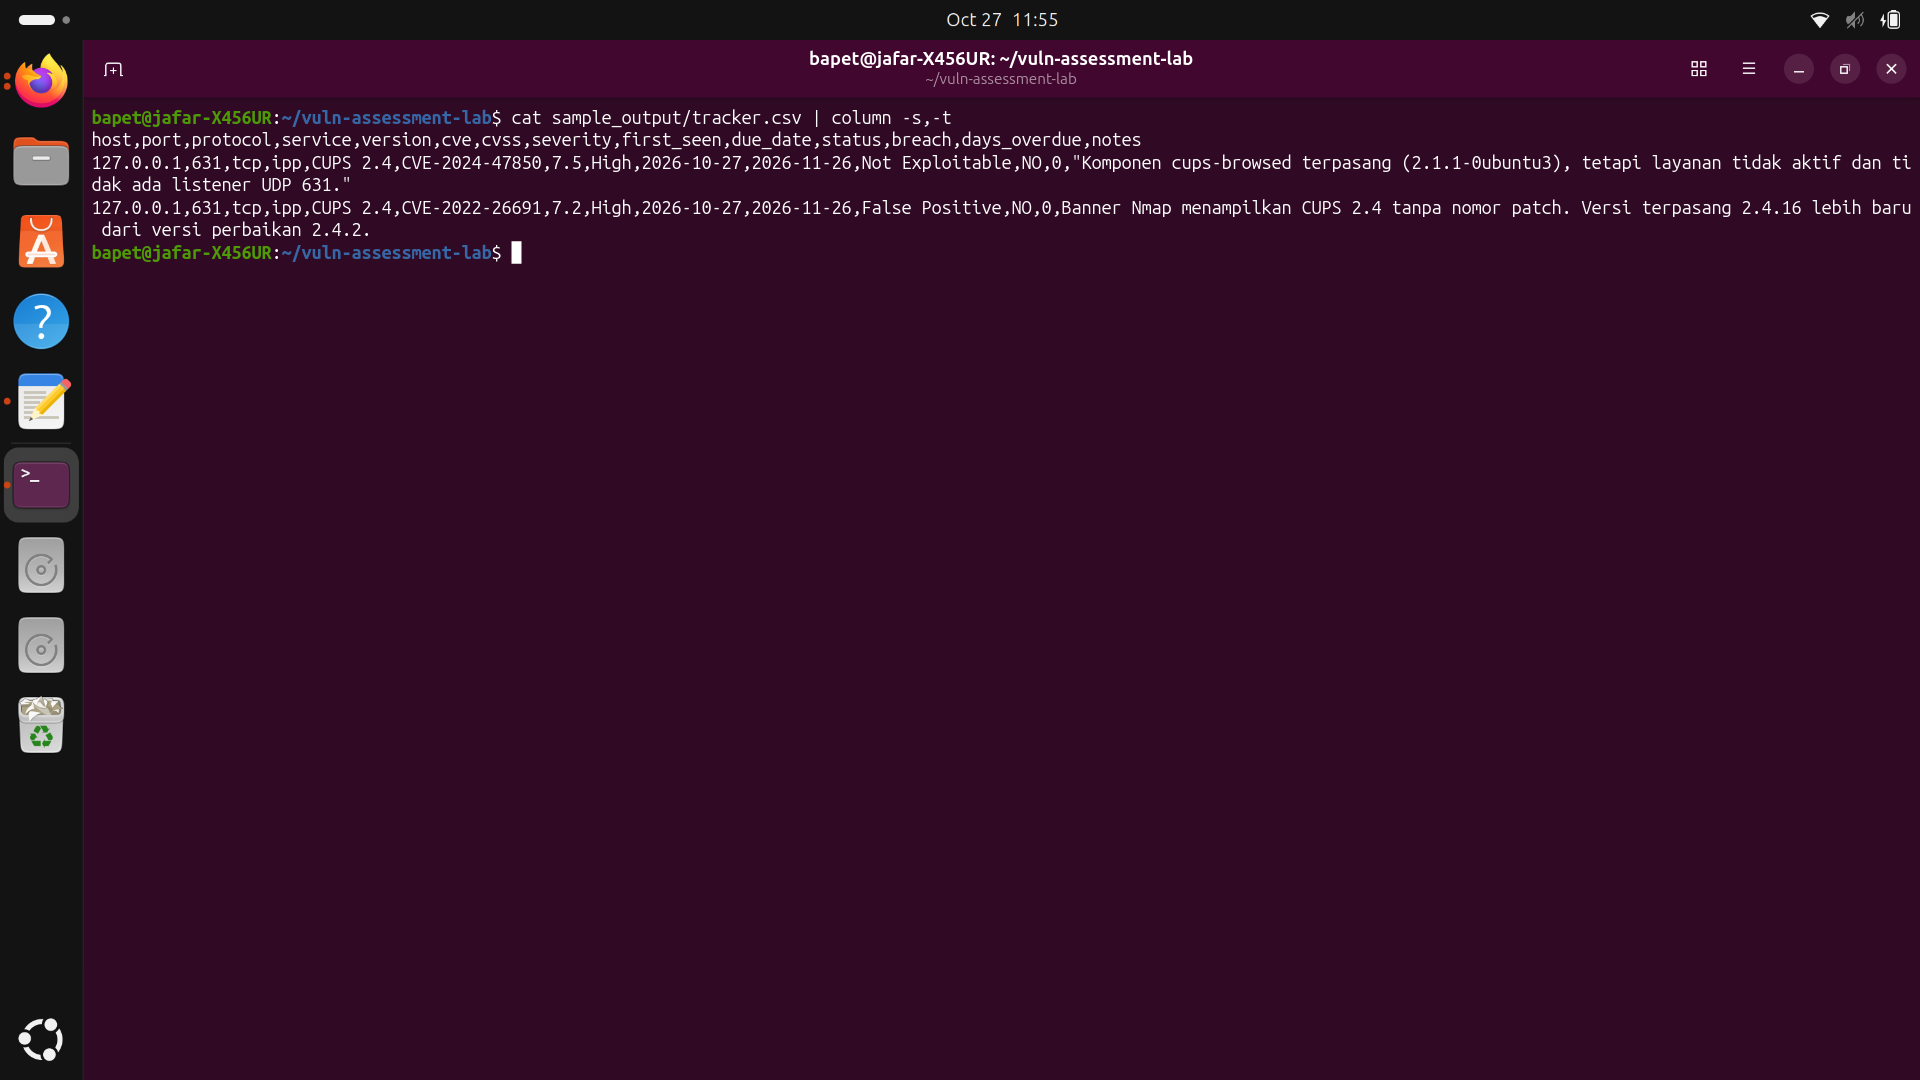
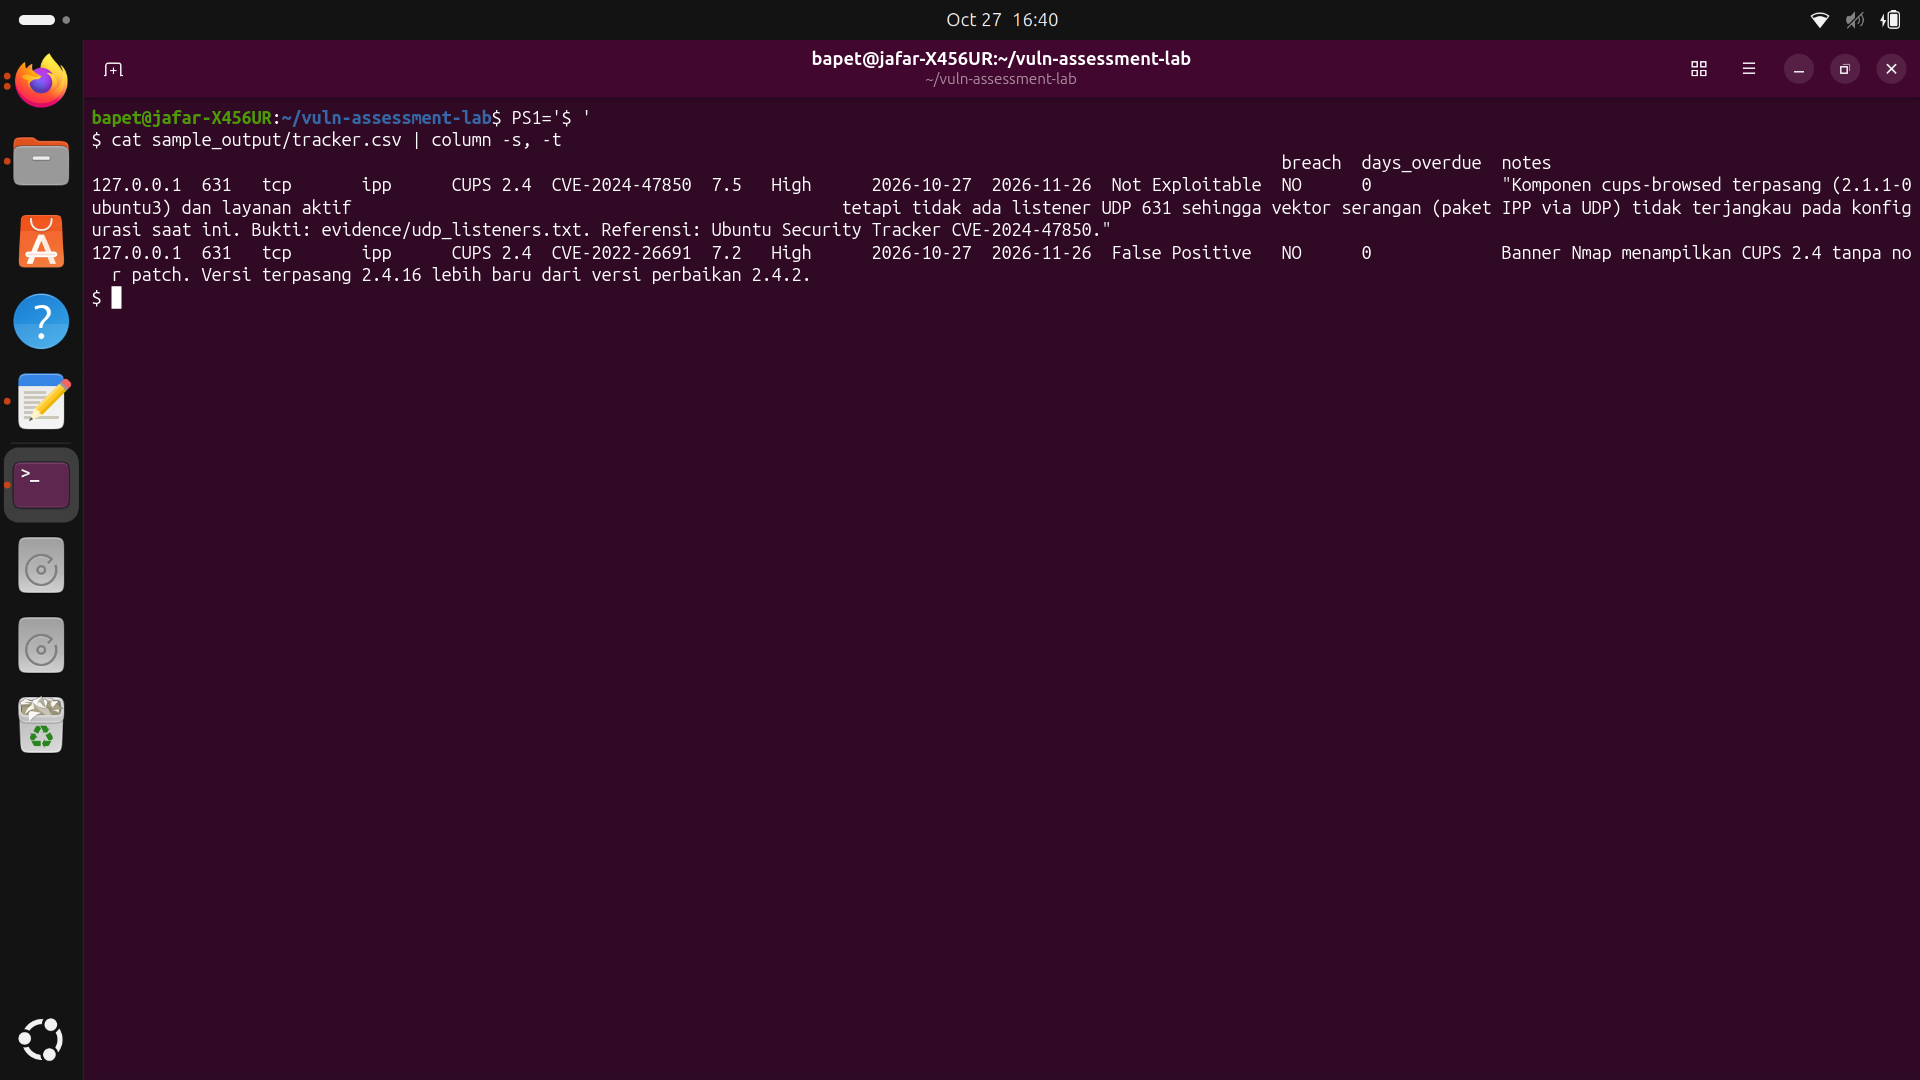
Lengkapi README, bukti verifikasi, dan tracker

Changed region(s): [[0.0312, 0.0917, 1.0, 0.275], [0.4062, 0.0, 0.625, 0.0611], [0.7188, 0.1222, 0.7812, 0.1528]]

diff --git a/README.md b/README.md
@@ -1,14 +1,50 @@
 # Infrastructure Vulnerability Assessment & SLA Tracking Simulation
 
 ## 1. Tujuan
-Membangun simulasi lab *Vulnerability Management* mandiri untuk mempelajari proses pemindaian aset, inventarisasi celah keamanan (CVE), klasifikasi severity berbasis CVSS, pemantauan SLA remediasi, serta analisis *False Positive* dan verifikasi komponen.
+Simulasi mandiri proses Vulnerability Management: pemindaian aset, inventarisasi celah (CVE), klasifikasi severity berbasis CVSS, pemantauan SLA remediasi, serta analisis false positive dan verifikasi komponen.
 
 ## 2. Topologi Lab
-- **Scanner / OS:** Ubuntu Linux (x86_64)
-- **Target Scan:** Localhost (127.0.0.1) / Layanan CUPS & cups-browsed
-- **Tools Utama:** Nmap (Nmap Scripting Engine / vulners), Python 3 (Custom Vulnerability & SLA Tracker)
+- Scanner dan target: Ubuntu Linux, localhost (127.0.0.1)
+- Layanan yang dianalisis: CUPS (cupsd) dan cups-browsed
+- Tools: Nmap (NSE script vulners), Python 3 (vuln_tracker.py)
 
 ## 3. Langkah Menjalankan
-1. Jalankan pemindaian kerentanan Nmap (menyimpan format teks dan XML):
+1. Pindai localhost, simpan format teks dan XML:
    ```bash
    sudo nmap -sV --script vulners -T4 -oN sample_output/hasil.txt -oX sample_output/hasil.xml localhost
+   ```
+2. Hasilkan tracker CSV:
+   ```bash
+   python3 vuln_tracker.py sample_output/hasil.txt -o sample_output/tracker.csv
+   ```
+3. Simulasi tanggal untuk menguji perhitungan SLA dan breach:
+   ```bash
+   python3 vuln_tracker.py sample_output/hasil.txt -o sample_output/tracker.csv --as-of 2026-12-15
+   ```
+4. Perbarui kolom `status` dan `notes` di tracker.csv setelah verifikasi manual. Nilainya dipertahankan saat script dijalankan ulang.
+
+SLA simulasi: Critical 7 hari, High 30, Medium 90, Low 180, dihitung dari tanggal pertama temuan terlihat (first_seen).
+
+## 4. Hasil
+Pemindaian localhost menemukan 1 port terbuka (631/tcp, CUPS 2.4) dan 2 temuan CVE, keduanya High menurut skor vulners.
+
+![Hasil tracker](screenshots/tracker_result.png)
+
+## 5. Analisis Verifikasi
+
+| CVE | Skor | Status | Analisis | Bukti |
+|---|---|---|---|---|
+| CVE-2022-26691 | 7.2 | False Positive | Banner Nmap hanya menampilkan "CUPS 2.4" tanpa nomor patch, sehingga vulners mencocokkan CVE untuk seluruh seri 2.4. Versi terpasang 2.4.16, lebih baru dari versi perbaikan 2.4.2 (changelog CUPS). | evidence/apt_policy_cups.txt |
+| CVE-2024-47850 | 7.5 | Not Exploitable | CVE menyangkut komponen cups-browsed (terpasang 2.1.1-0ubuntu3, layanan aktif), bukan cupsd yang dideteksi Nmap di TCP 631. Vektor serangannya adalah paket IPP via UDP 631, namun tidak ada socket UDP di port 631 dan cups-browsed tidak memiliki socket UDP; TCP 631 dimiliki cupsd hanya di loopback. | evidence/apt_policy_cups-browsed.txt, evidence/cups-browsed_status.txt, evidence/cups-browsed_enabled.txt, evidence/udp_listeners.txt, evidence/tcp631_owner.txt |
+
+Catatan: alamat IP LAN dan IPv6 link-local di evidence/udp_listeners.txt disensor; baris lainnya tidak diubah dari output asli.
+
+Rekomendasi remediasi (tidak dijalankan di lab ini): jika cups-browsed tidak dibutuhkan, nonaktifkan dengan `sudo systemctl disable --now cups-browsed` dan pindai ulang untuk memastikan statusnya.
+
+## 6. Keterbatasan
+- Skala kecil: 1 host dan 1 port terbuka.
+- Pencocokan CVE berbasis versi banner, rawan false positive.
+- Skor CVSS dari vulners dapat berbeda dari sumber lain (contoh: CVE-2022-26691 tercatat 6.7 di OSV).
+- Status Not Exploitable berlaku pada konfigurasi saat ini; komponen rentan tetap terpasang dan aktif, sehingga perlu ditinjau ulang jika konfigurasi berubah.
+- SLA bersifat simulasi dan tidak memakai scanner komersial (Nessus, Qualys).
+- Fitur SLA breach belum terdemonstrasi karena tidak ada temuan berstatus Open.
